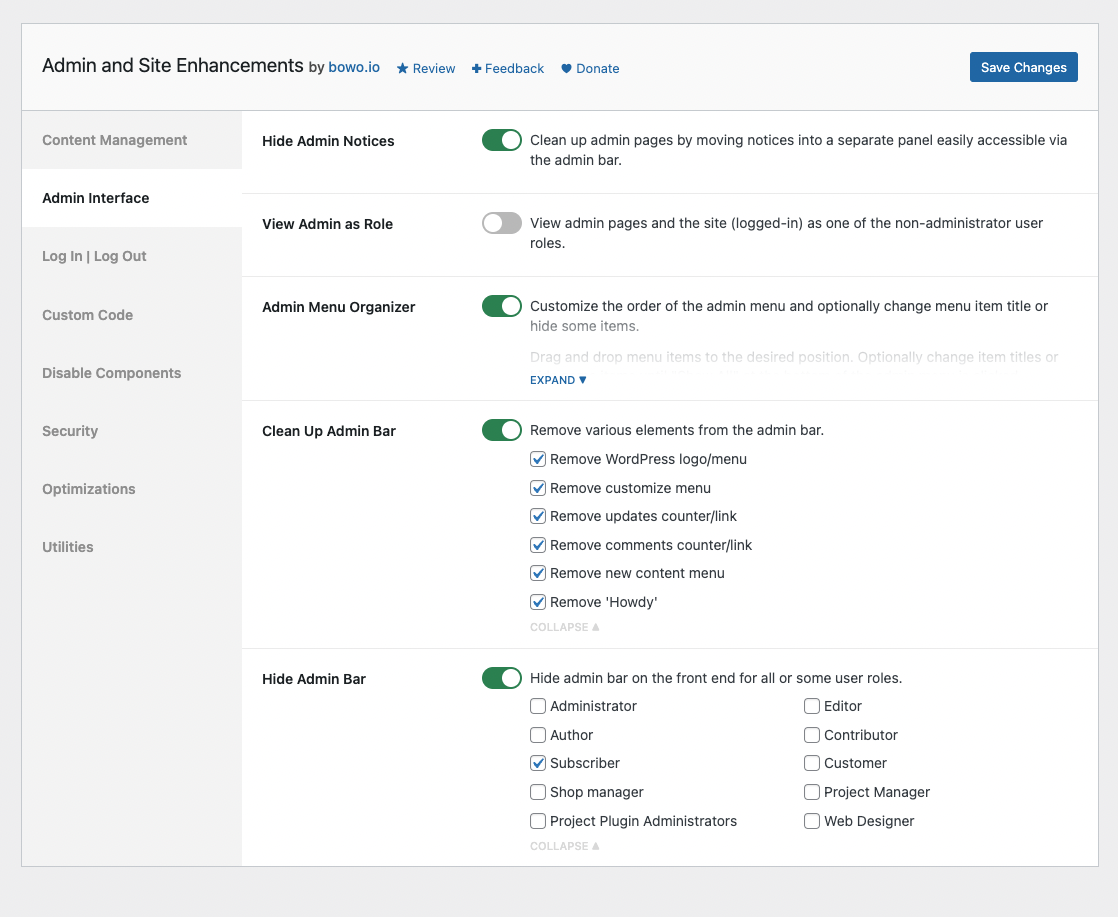
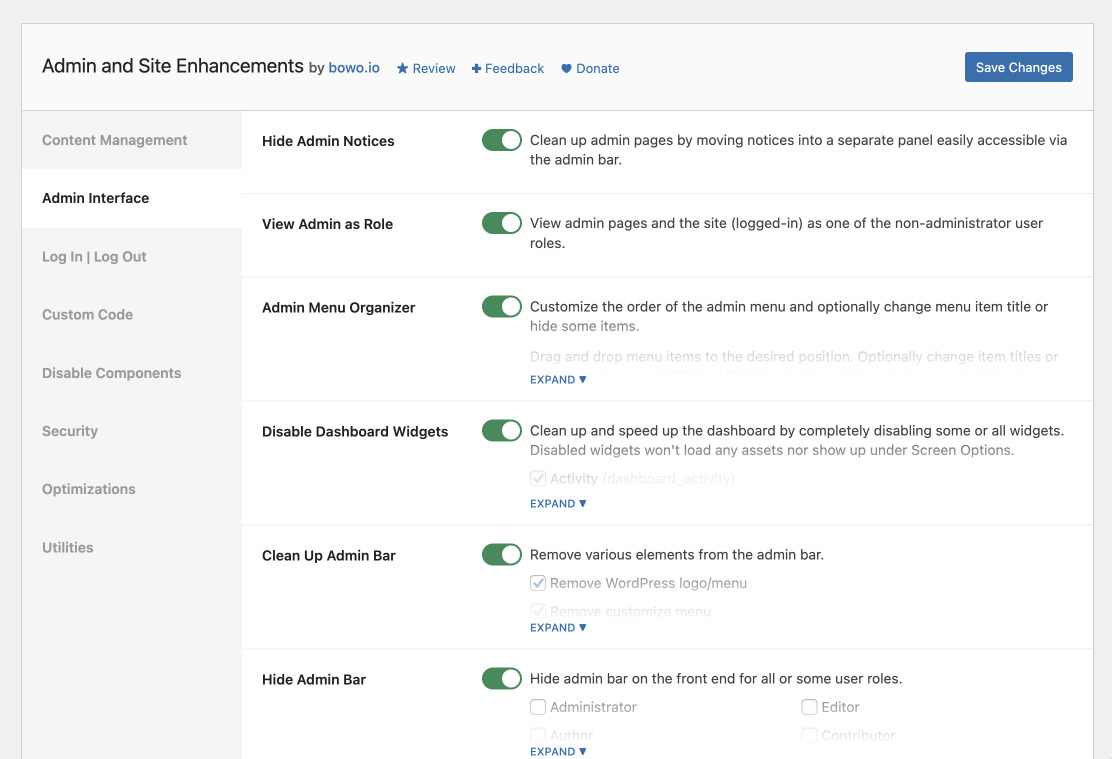
v4.2.0 release

diff --git a/admin-site-enhancements.php b/admin-site-enhancements.php
@@ -4,7 +4,7 @@
  * Plugin Name:       Admin and Site Enhancements
  * Plugin URI:        https://wordpress.org/plugins/admin-site-enhancements/
  * Description:       Easily enable enhancements and features that usually require multiple plugins.
- * Version:           4.1.0
+ * Version:           4.2.0
  * Author:            Bowo
  * Author URI:        https://bowo.io
  * License:           GPL-2.0+
@@ -18,7 +18,7 @@ if ( ! defined( 'ABSPATH' ) ) {
 	exit;
 }
 
-define( 'ASENHA_VERSION', '4.1.0' );
+define( 'ASENHA_VERSION', '4.2.0' );
 define( 'ASENHA_ID', 'asenha' );
 define( 'ASENHA_SLUG', 'admin-site-enhancements' );
 define( 'ASENHA_SLUG_U', 'admin_site_enhancements' );

diff --git a/README.md b/README.md
@@ -5,7 +5,7 @@ Donate link: https://paypal.me/qriouslad
 Tags: enhancements, tweaks, optimizations, tools  
 Requires at least: 4.6  
 Tested up to: 6.1.1  
-Stable tag: 4.1.0  
+Stable tag: 4.2.0  
 Requires PHP: 5.6  
 License: GPLv2 or later  
 License URI: http://www.gnu.org/licenses/gpl-2.0.html
@@ -39,6 +39,7 @@ Admin and Site Enhancements helps you to easily enhance various admin workflows 
 * **Hide Admin Notices**. Clean up admin pages by moving notices into a separate panel easily accessible via the admin bar.
 * **View Admin as Role**. View admin pages and the site (logged-in) as one of the non-administrator user roles.
 * **Admin Menu Organizer**. Customize the order of the admin menu and optionally change menu item title or hide some items.
+* **Disable Dashboard Widgets**. Clean up and speed up the dashboard by completely disabling some or all widgets. Disabled widgets won't load any assets nor show up under Screen Options.
 * **Clean Up Admin Bar**. Remove various elements from the admin bar.
   * Remove WordPress logo/menu
   * Remove customize menu/link
@@ -129,6 +130,10 @@ Admin and Site Enhancements will include more enhancements, tweaks and useful fe
 Hoping that this is useful in reducing the number of plugins we install the first time we set up a site.
 
 ## Changelog
+
+### 4.2.0 (2023.01.23)
+
+* **[ADDED] Admin Interface >> Disable Dashboard Widgets**. Clean up and speed up the dashboard by completely disabling some or all widgets. Disabled widgets won't load any assets nor show up under Screen Options.
 
 ### 4.1.0 (2023.01.16)
 
